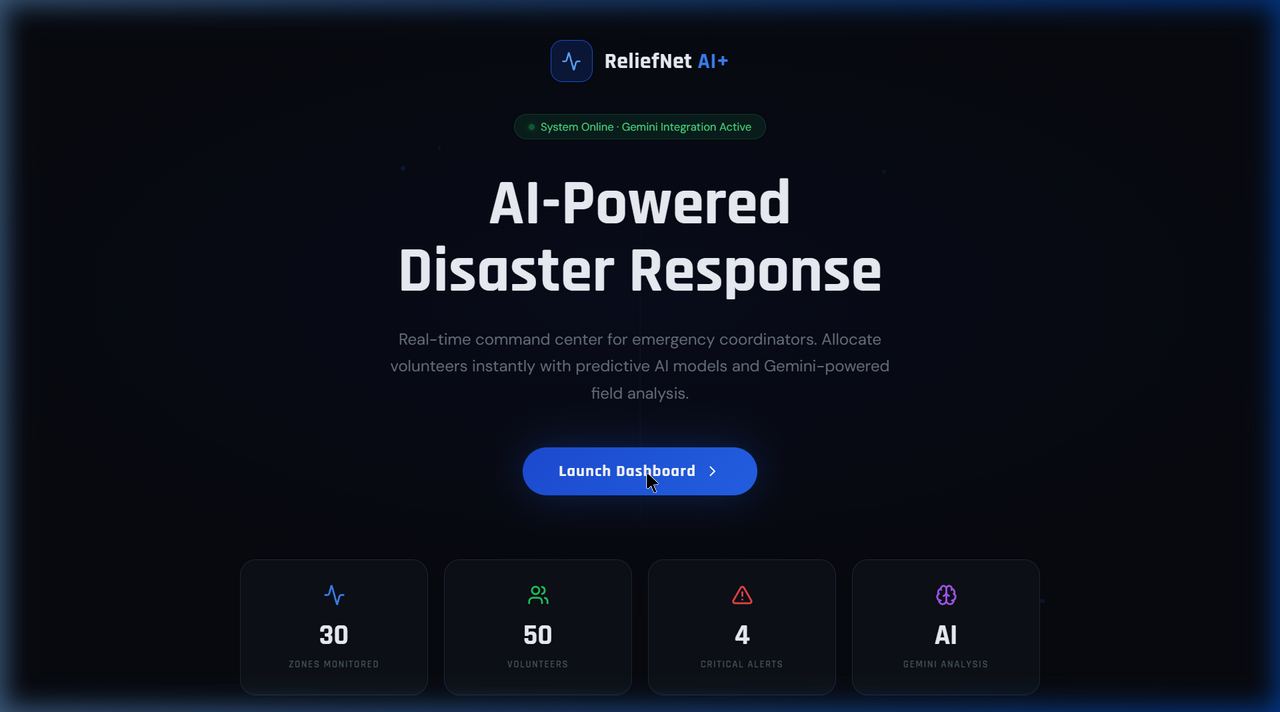
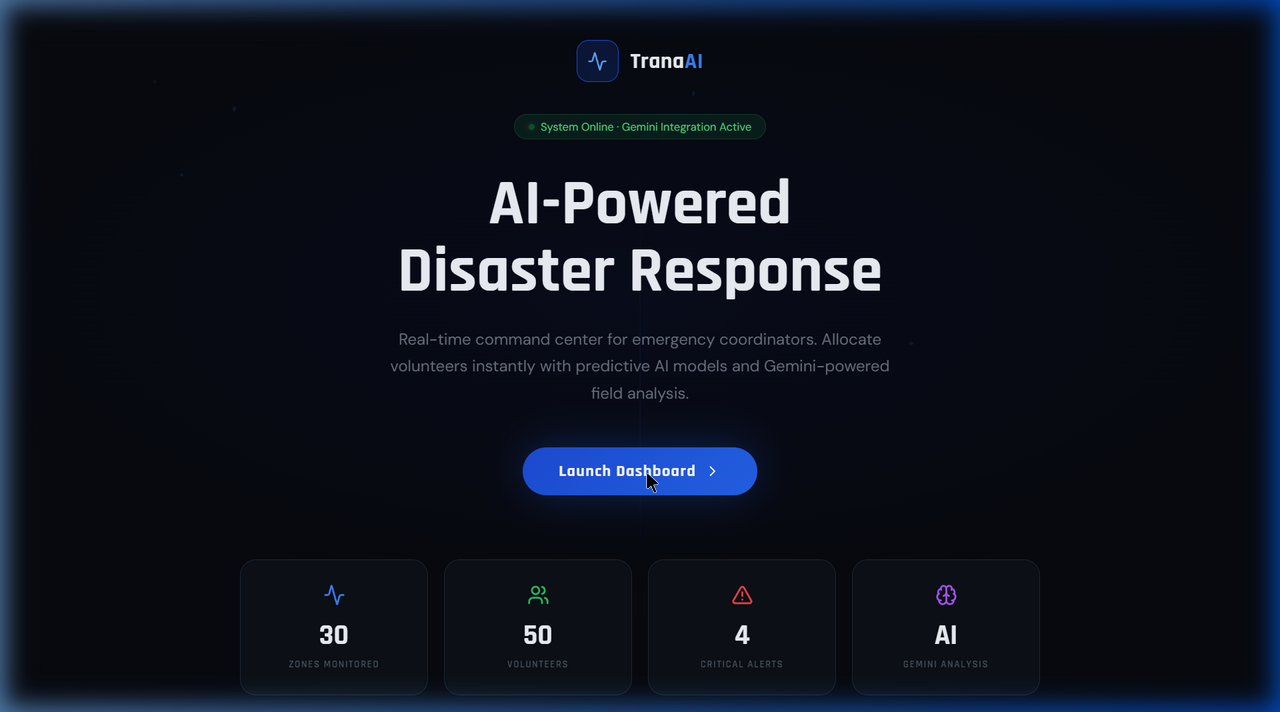
Update screenshots with TranaAI branding + fix broken URLs

Changed region(s): [[0.0, 0.0, 1.0, 1.0], [0.4062, 0.0309, 0.5625, 0.1236], [0.2812, 0.0, 0.3125, 0.0309]]

diff --git a/README.md b/README.md
@@ -19,7 +19,7 @@
 ---
 
 <p align="center">
-  <a href="https://agent-69ee5006ca3b7f532b770689--TranaAI01.netlify.app">
+  <a href="https://agent-69ee5006ca3b7f532b770689--reliefnet01.netlify.app">
     <img src="https://img.shields.io/badge/🚀_LIVE_DEMO-Try_It_Now-22c55e?style=for-the-badge&logoColor=white" alt="Live Demo" />
   </a>
   &nbsp;&nbsp;
@@ -29,7 +29,7 @@
 </p>
 
 <p align="center">
-  👉 <strong><a href="https://agent-69ee5006ca3b7f532b770689--TranaAI01.netlify.app">https://agent-69ee5006ca3b7f532b770689--TranaAI01.netlify.app</a></strong> 👈
+  👉 <strong><a href="https://agent-69ee5006ca3b7f532b770689--reliefnet01.netlify.app">https://agent-69ee5006ca3b7f532b770689--reliefnet01.netlify.app</a></strong> 👈
 </p>
 
 ---
@@ -40,7 +40,7 @@
 
 ### Quick Start (Online Demo)
 
-1. **Open** → [https://agent-69ee5006ca3b7f532b770689--TranaAI01.netlify.app](https://agent-69ee5006ca3b7f532b770689--TranaAI01.netlify.app)
+1. **Open** → [https://agent-69ee5006ca3b7f532b770689--reliefnet01.netlify.app](https://agent-69ee5006ca3b7f532b770689--reliefnet01.netlify.app)
 2. **Click** → "Launch Dashboard" on the landing page
 3. **Explore** → Navigate the Command Center, run AI Allocation, view the map
 4. **Unlock AI** → Paste your free [Gemini API key](https://aistudio.google.com/) into the AI Priority or Prediction panels
@@ -492,13 +492,13 @@ netlify deploy --prod --dir=dist
 
 ### Post-Deploy Checklist
 
-- [ ] Update the live demo URL in this README (replace `TranaAI-ai.netlify.app` with your actual Netlify URL)
+- [x] ~~Update the live demo URL in this README~~ ✅
 - [ ] Update the GitHub repo URL in the Deploy button link
 - [ ] Verify Google Maps loads correctly (may need to add Netlify domain to Maps API allowed referrers)
 - [ ] Test Gemini API key entry in-app
 - [ ] Share the link with judges! 🎉
 
-> ⚠ **Important:** After deploying, update the placeholder URL `https://agent-69ee5006ca3b7f532b770689--TranaAI01.netlify.app` in this README with your actual Netlify deployment URL.
+> ⚠ **Important:** After deploying, update the placeholder URL `https://agent-69ee5006ca3b7f532b770689--reliefnet01.netlify.app` in this README with your actual Netlify deployment URL.
 
 ---
 
@@ -558,7 +558,7 @@ This is a hackathon prototype. Contributions are welcome for:
 
 ## 📄 License
 
-This project is built for the **** and is available under the [MIT License](LICENSE).
+This project is built for the **Google Solution Challenge 2026** and is available under the [MIT License](LICENSE).
 
 ---
 
